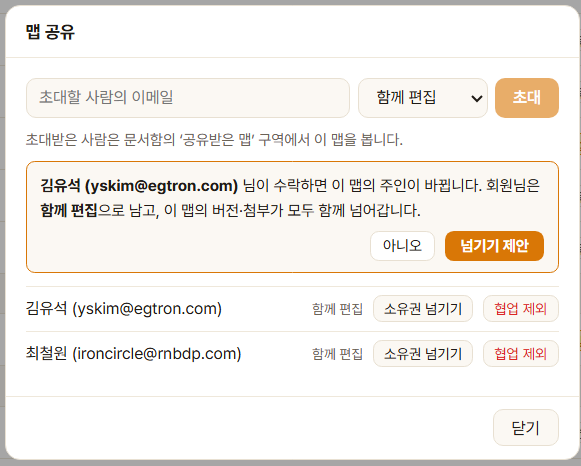
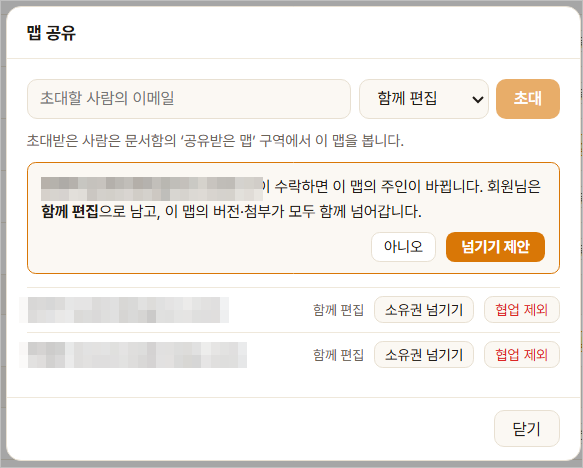
docs(user-guide): 11 소유권 넘기기 캡처 연결 — 참여자 이름·이메일 모자이크, 경로 문구 수정
- 사용자가 올린 assets/11-transfer-ownership.png 의 실제 이름·이메일을 가리고
  테두리를 넣어 교체. 11.10 경로를 실제 화면(공유 → 맵 공유 → 소유권 넘기기 →
  넘기기 제안)으로. 가이드 스크린샷 TODO 0개. test-catalog 206차.

Claude-Session: https://claude.ai/code/session_01PHMCTbMKMt1Nq2yNJHcjEs

diff --git a/docs/05-implementation/test-catalog.md b/docs/05-implementation/test-catalog.md
@@ -421,6 +421,17 @@
 > 겹쳐 보이지만 날짜와 함께 읽으면 유일하다. **고치지 말 것** — 그때의
 > 기록을 지금 규칙으로 고쳐 쓰면 없던 역사를 만드는 셈이다.
 
+- 2026-09-14 (206차): **문서 — 가이드 11 소유권 넘기기 캡처 연결 (사용자
+  캡처)**. 유료 모듈 화면이라 사용자가 운영에서 찍어 `assets/` 에 직접
+  올렸다(`961c4cc`). **실제 참여자 두 명의 이름·이메일이 찍혀 있어 모자이크
+  처리**한 뒤 연결했다 — 공개 저장소다. 원본은 그 업로드 커밋의 이력에
+  남아 있다(이력 재작성은 파괴적이라 하지 않았다 — 사용자에게 알렸다).
+  **문서 어긋남 수정** — 11.10 의 경로 "맵 설정 → 소유권 넘기기" 는 실제
+  화면(툴바 [공유] → 맵 공유 대화상자 → 참여자 줄의 [소유권 넘기기] →
+  [넘기기 제안])과 달라 고쳤다. 그 아래 ASCII 그림("자동 버전은 넘어가지
+  않습니다")은 화면 문구("버전·첨부가 모두 함께 넘어갑니다")와 상충하는데
+  유료 모듈 코드를 볼 수 없어 **손대지 않고 사용자에게 물었다**. 이로써
+  사용자 가이드의 스크린샷 TODO 는 **0개**다.
 - 2026-09-14 (205차): **문서 — 가이드 07·08·11 스크린샷 7자리(그림 8장) +
   못 만드는 1자리 명시**. `guide07.mjs`(AI 제공사 HTTP 를 스텁 — 그 뒤의
   EMM 파싱·확인·삽입은 진짜 코드) · `guide08.mjs`(뷰어는 실제

diff --git a/docs/user-guide/11-버전기록.md b/docs/user-guide/11-버전기록.md
@@ -226,11 +226,13 @@
 
 ### 넘기는 사람 (개설자)
 
-`맵 설정` → `소유권 넘기기` → 참여자 중에서 선택합니다.
+상단 툴바의 **`공유`** 버튼 → **맵 공유** 대화상자 → 참여자 줄의
+**`소유권 넘기기`** → 안내를 읽고 **`넘기기 제안`** 을 누릅니다.
 
-<!-- TODO(스크린샷): 참여자 선택 · 이전 항목 안내 — 이 화면은 유료 모듈(ProShareDialog)에
-     있어 공개 저장소의 doc-shots 로는 만들 수 없다. 운영 화면에서 직접 캡처해
-     assets/11-transfer-ownership.png 로 올린다. -->
+<img src="assets/11-transfer-ownership.png" width="420" alt="맵 공유 대화상자 — 참여자 줄마다 [소유권 넘기기] · [협업 제외], 위에 \"…님이 수락하면 이 맵의 주인이 바뀝니다\" 안내와 [아니오] [넘기기 제안]">
+
+> 참여자 이름·이메일은 가렸습니다. 이 화면은 유료(협업) 모듈이라 저장소의
+> 캡처 스크립트로는 만들 수 없어 운영 화면에서 직접 찍었습니다.
 
 ```
 ┌─ 소유권 이전 ─────────────────────────────────┐
